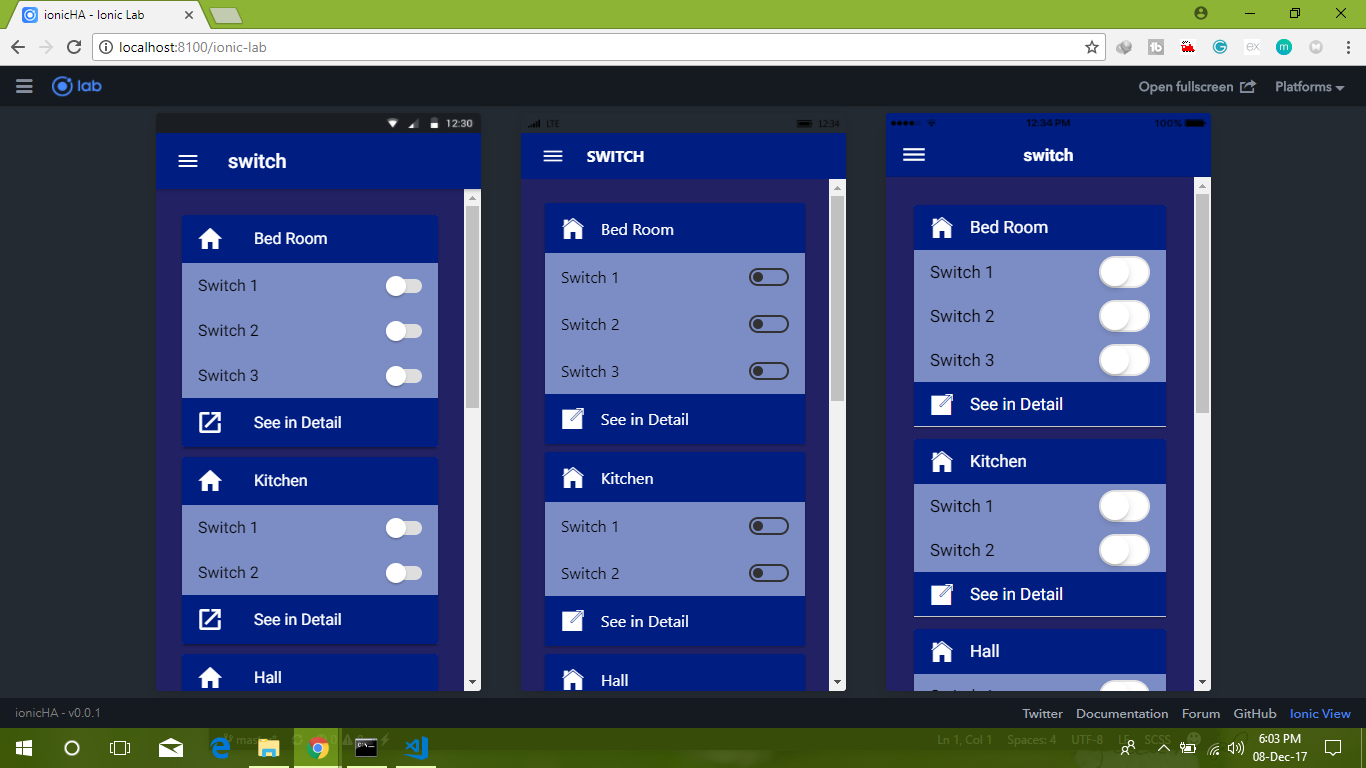
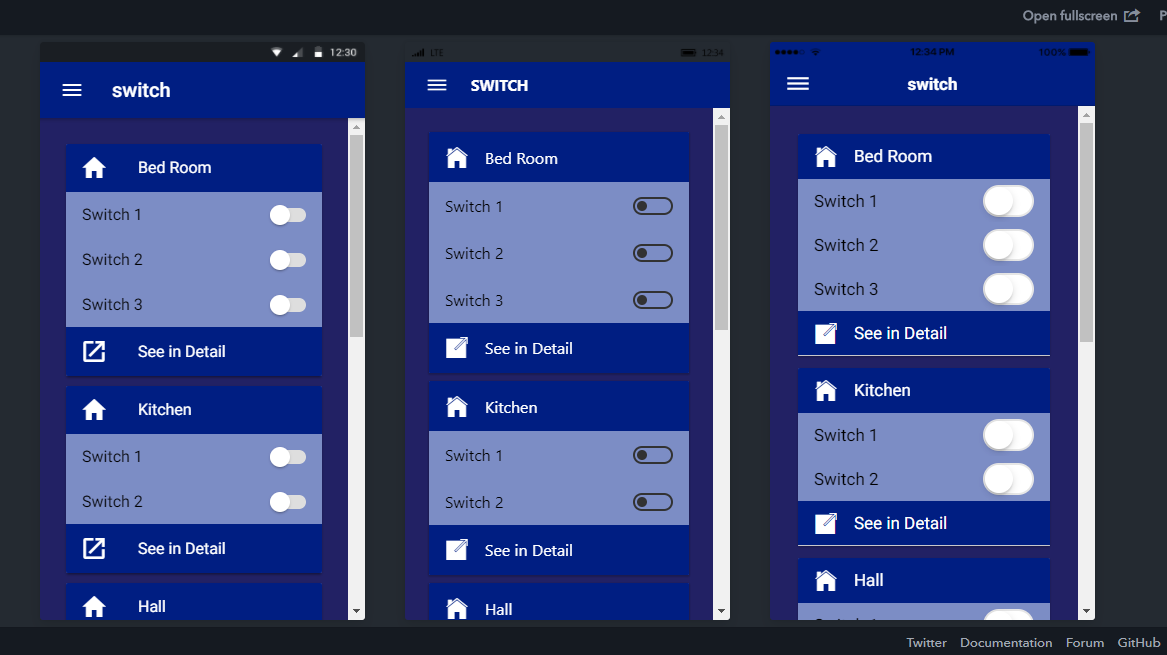
Screenshots added

diff --git a/README.md b/README.md
@@ -3,7 +3,7 @@ Home Automation App using ionic 3 / ionic-angular framework  www.ionicframework.
 
 ## Screenshots
 
-
+![Screen Shots](https://github.com/ashish-eqn/ionic-3-Home-Automation/blob/master/Screenshots/Screenshot.png)
 
 ## Getting Started
 
